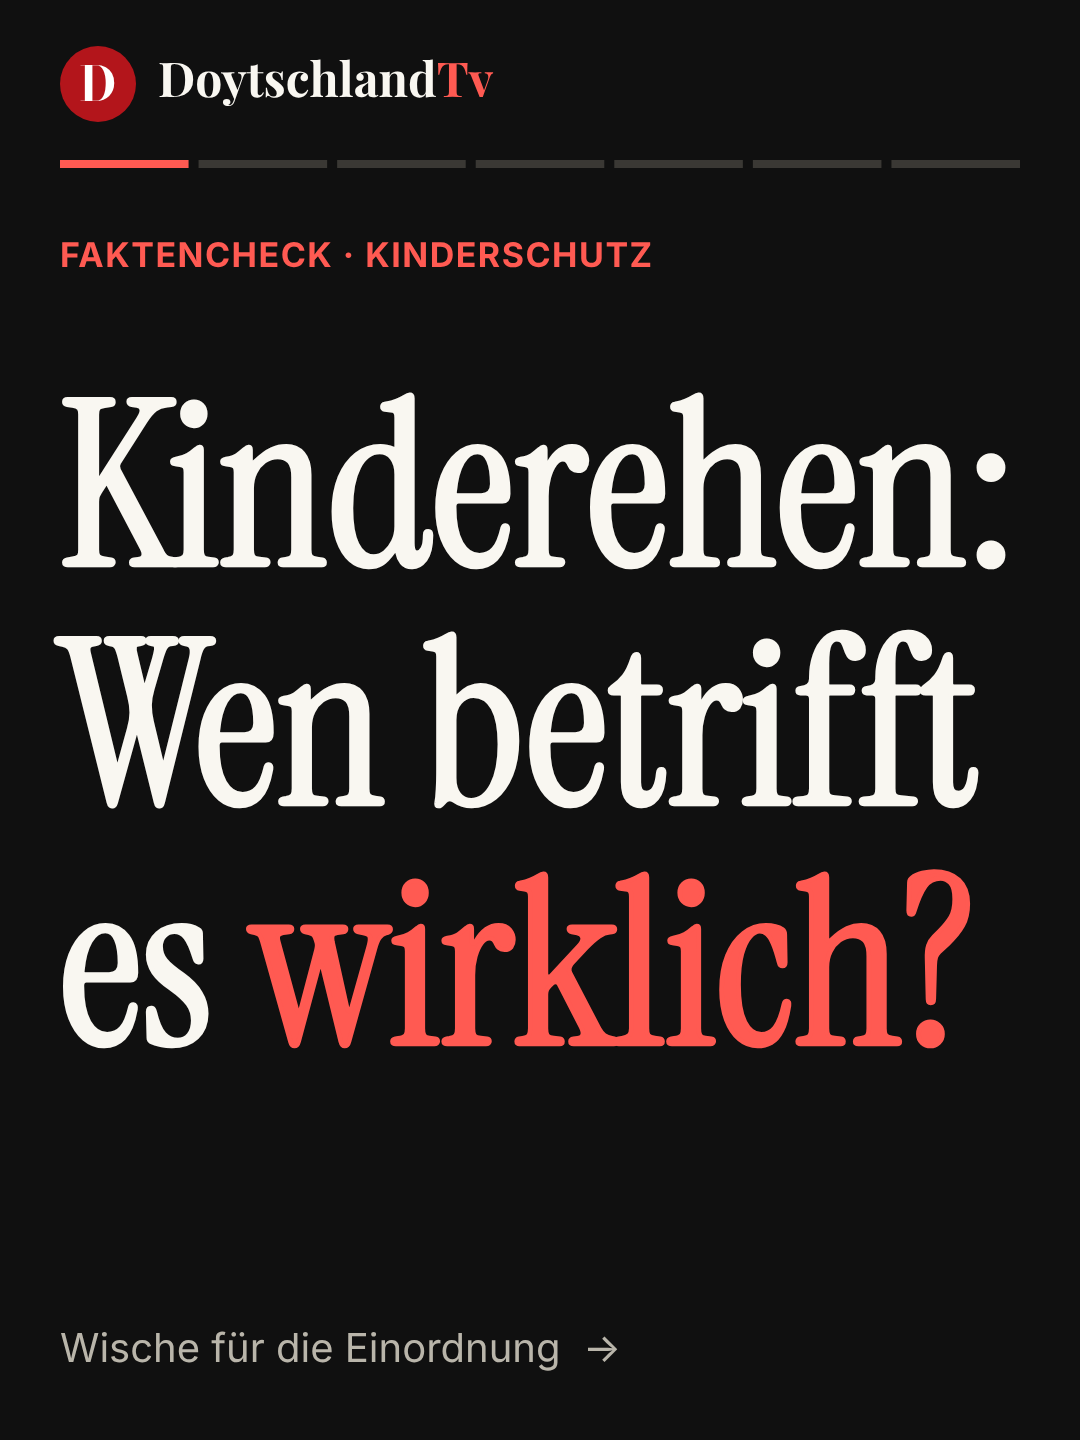
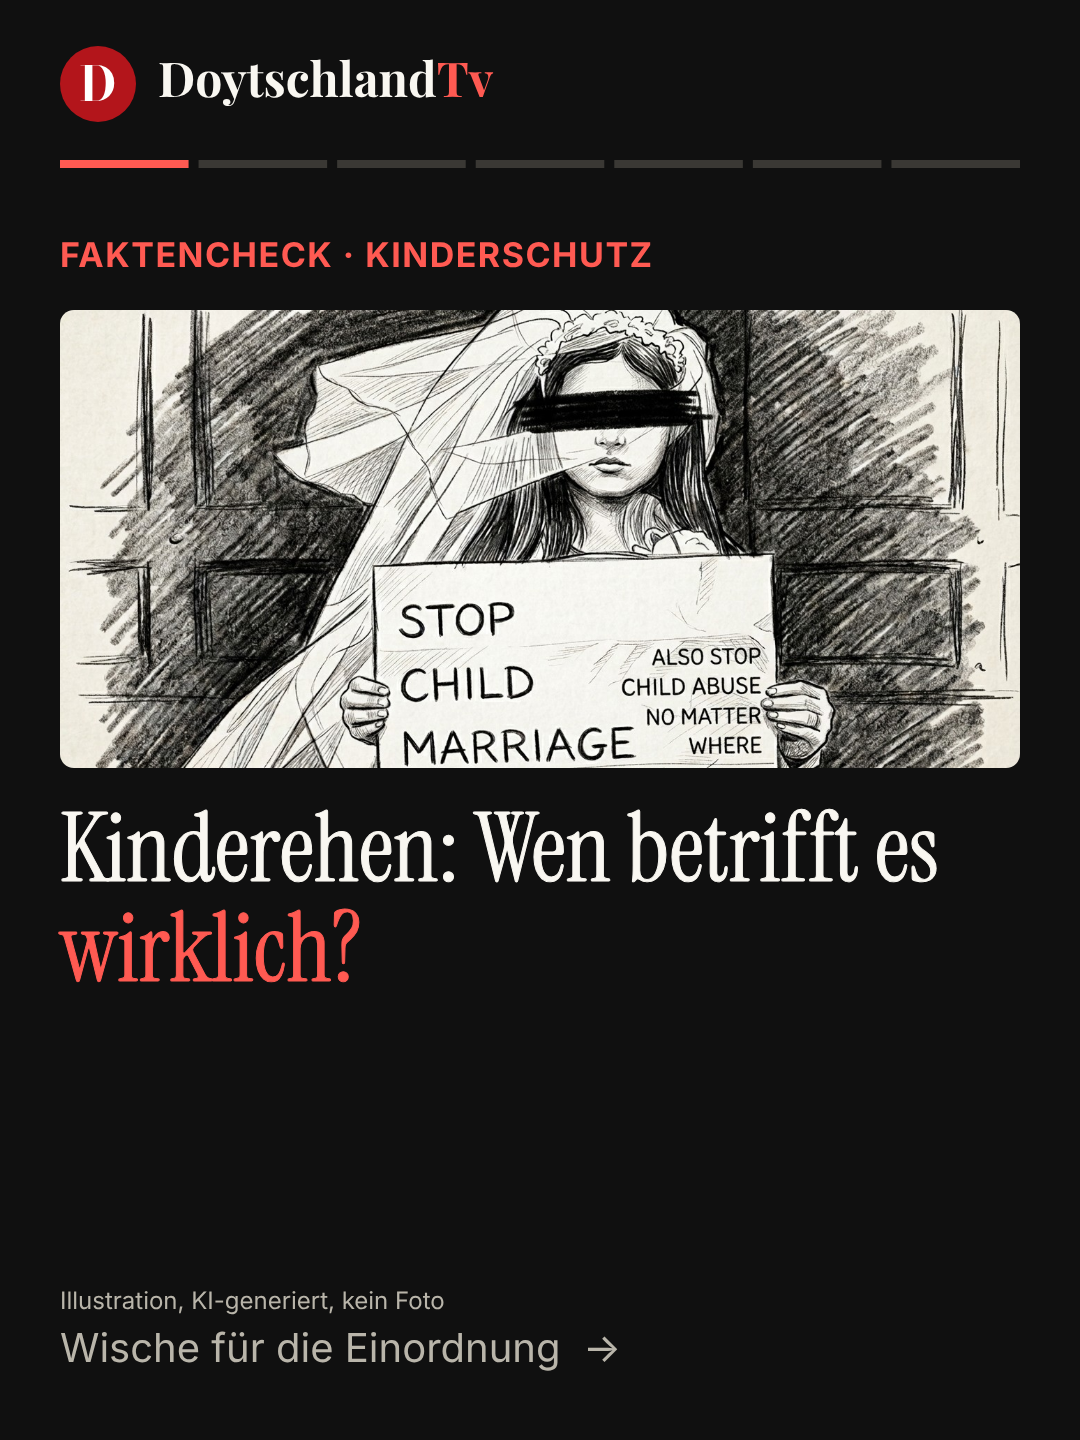
Entwurf Kinderehen: Titelbild in Hook und Story
Bild unten zugeschnitten (ohne Logo und Nummernfeld), Kennzeichnung "Illustration, KI-generiert, kein Foto". Neu gerendert, prerender und seo_seiten gelaufen. Nicht live.

Claude-Session: https://claude.ai/code/session_01C4yShQGQRoj2vCqoUjvDM3

diff --git a/beitrag/2026-10-15-kinderehen-wen-betrifft-es-wirklich-faktencheck-zu-acht-aufgehobenen.html b/beitrag/2026-10-15-kinderehen-wen-betrifft-es-wirklich-faktencheck-zu-acht-aufgehobenen.html
@@ -5,10 +5,10 @@
 <link rel="canonical" href="https://doytschtv.de/beitrag/2026-10-15-kinderehen-wen-betrifft-es-wirklich-faktencheck-zu-acht-aufgehobenen.html">
 <meta name="robots" content="index,follow,max-image-preview:large">
 <meta property="og:type" content="article"><meta property="og:site_name" content="DoytschlandTv"><meta property="og:locale" content="de_DE">
-<meta property="og:title" content="Kinderehen: Wen betrifft es wirklich? Faktencheck zu acht aufgehobenen Ehen in Baden-Württemberg"><meta property="og:description" content="In Baden-Württemberg wurden 2018 bis 2024 acht Ehen mit Minderjährigen aufgehoben. Die Beteiligten stammten aus Afghanistan, Rumänien, Moldawien, Syrien…"><meta property="og:url" content="https://doytschtv.de/beitrag/2026-10-15-kinderehen-wen-betrifft-es-wirklich-faktencheck-zu-acht-aufgehobenen.html"><meta property="og:image" content="https://doytschtv.de/og-image.png">
-<meta name="twitter:card" content="summary_large_image"><meta name="twitter:title" content="Kinderehen: Wen betrifft es wirklich? Faktencheck zu acht aufgehobenen Ehen in Baden-Württemberg"><meta name="twitter:description" content="In Baden-Württemberg wurden 2018 bis 2024 acht Ehen mit Minderjährigen aufgehoben. Die Beteiligten stammten aus Afghanistan, Rumänien, Moldawien, Syrien…"><meta name="twitter:image" content="https://doytschtv.de/og-image.png">
+<meta property="og:title" content="Kinderehen: Wen betrifft es wirklich? Faktencheck zu acht aufgehobenen Ehen in Baden-Württemberg"><meta property="og:description" content="In Baden-Württemberg wurden 2018 bis 2024 acht Ehen mit Minderjährigen aufgehoben. Die Beteiligten stammten aus Afghanistan, Rumänien, Moldawien, Syrien…"><meta property="og:url" content="https://doytschtv.de/beitrag/2026-10-15-kinderehen-wen-betrifft-es-wirklich-faktencheck-zu-acht-aufgehobenen.html"><meta property="og:image" content="https://doytschtv.de/titel-kinderehen.jpg">
+<meta name="twitter:card" content="summary_large_image"><meta name="twitter:title" content="Kinderehen: Wen betrifft es wirklich? Faktencheck zu acht aufgehobenen Ehen in Baden-Württemberg"><meta name="twitter:description" content="In Baden-Württemberg wurden 2018 bis 2024 acht Ehen mit Minderjährigen aufgehoben. Die Beteiligten stammten aus Afghanistan, Rumänien, Moldawien, Syrien…"><meta name="twitter:image" content="https://doytschtv.de/titel-kinderehen.jpg">
 <meta name="theme-color" content="#0b0b10"><link rel="apple-touch-icon" href="/favicon.png">
-<script type="application/ld+json">{"@context": "https://schema.org", "@type": "NewsArticle", "headline": "Kinderehen: Wen betrifft es wirklich? Faktencheck zu acht aufgehobenen Ehen in Baden-Württemberg", "description": "In Baden-Württemberg wurden 2018 bis 2024 acht Ehen mit Minderjährigen aufgehoben. Die Beteiligten stammten aus Afghanistan, Rumänien, Moldawien, Syrien…", "datePublished": "2026-10-15", "dateModified": "2026-10-15", "inLanguage": "de", "mainEntityOfPage": "https://doytschtv.de/beitrag/2026-10-15-kinderehen-wen-betrifft-es-wirklich-faktencheck-zu-acht-aufgehobenen.html", "image": ["https://doytschtv.de/og-image.png"], "author": {"@type": "Organization", "name": "DoytschlandTv", "url": "https://doytschtv.de/"}, "publisher": {"@type": "Organization", "name": "DoytschlandTv", "logo": {"@type": "ImageObject", "url": "https://doytschtv.de/favicon.png"}}, "articleSection": "Nachrichten", "keywords": ["doytschlandtv", "kinderschutz", "kinderehen", "faktencheck", "einordnung", "nachrichten", "politik", "deutschland"]}</script>
+<script type="application/ld+json">{"@context": "https://schema.org", "@type": "NewsArticle", "headline": "Kinderehen: Wen betrifft es wirklich? Faktencheck zu acht aufgehobenen Ehen in Baden-Württemberg", "description": "In Baden-Württemberg wurden 2018 bis 2024 acht Ehen mit Minderjährigen aufgehoben. Die Beteiligten stammten aus Afghanistan, Rumänien, Moldawien, Syrien…", "datePublished": "2026-10-15", "dateModified": "2026-10-15", "inLanguage": "de", "mainEntityOfPage": "https://doytschtv.de/beitrag/2026-10-15-kinderehen-wen-betrifft-es-wirklich-faktencheck-zu-acht-aufgehobenen.html", "image": ["https://doytschtv.de/titel-kinderehen.jpg"], "author": {"@type": "Organization", "name": "DoytschlandTv", "url": "https://doytschtv.de/"}, "publisher": {"@type": "Organization", "name": "DoytschlandTv", "logo": {"@type": "ImageObject", "url": "https://doytschtv.de/favicon.png"}}, "articleSection": "Nachrichten", "keywords": ["doytschlandtv", "kinderschutz", "kinderehen", "faktencheck", "einordnung", "nachrichten", "politik", "deutschland"]}</script>
 <link rel="stylesheet" href="/fonts.css"><link rel="stylesheet" href="/styles.css"><link rel="stylesheet" href="/briefing.css">
 <style>:root{color-scheme:light}body{margin:0}</style><link rel="icon" type="image/png" href="/favicon.png"></head><body>
-<header class="nav"><div class="wrap"><a class="brand" href="/index.html"><span class="mk" aria-hidden="true">D</span><img class="lg-l" src="/logo.png" alt="DoytschlandTv" width="136" height="25"><img class="lg-d" src="/logo-dark.png" alt="DoytschlandTv" width="136" height="25"></a><ul><li><a href="/briefing.html">Briefing</a></li><li><a href="/nachrichten.html" class=on>Nachrichten</a></li><li><a href="/dossiers.html">Dossiers</a></li><li><a href="/meinungen.html">Meinungen</a></li><li><a href="/erklaert.html">Erklärt</a></li><li><a href="/ueber-uns.html">Über uns</a></li></ul><span class="nav-so"><a href="https://www.instagram.com/doytschlandtv/" target="_blank" rel="noopener" aria-label="DoytschlandTv auf Instagram"><svg viewBox="0 0 24 24" fill="none" stroke="currentColor" stroke-width="2" stroke-linecap="round" aria-hidden="true"><rect x="3" y="3" width="18" height="18" rx="5"/><circle cx="12" cy="12" r="4.2"/><circle cx="17.3" cy="6.7" r=".6" fill="currentColor"/></svg></a><a href="https://www.tiktok.com/@doytschlandtv" target="_blank" rel="noopener" aria-label="DoytschlandTv auf TikTok"><svg viewBox="0 0 24 24" fill="currentColor" aria-hidden="true"><path d="M16.6 5.8A4.3 4.3 0 0 1 15.5 3h-3.1v12.4a2.6 2.6 0 1 1-1.8-2.5V9.7a5.7 5.7 0 1 0 4.9 5.7V9a7.3 7.3 0 0 0 4.3 1.4V7.3a4.3 4.3 0 0 1-3.2-1.5z"/></svg></a></span></div></header><main><div class="wrap"><article class="kol"><p class="b-eyebrow">Nachrichten · Faktencheck · Kinderschutz</p><h1 class="mk-h1">Kinderehen: Wen betrifft es wirklich? Faktencheck zu acht aufgehobenen Ehen in Baden-Württemberg</h1><p class="mk-meta">15. Oktober 2026</p><h2>Die Meldung</h2><p><strong>Acht aufgehobene Ehen, neun Herkunftsländer.</strong></p><p>In Baden-Württemberg wurden 2018 bis 2024 acht Ehen mit Minderjährigen aufgehoben. Die Beteiligten stammten aus Afghanistan, Rumänien, Moldawien, Syrien, Irak, Kroatien, Serbien, Pakistan und Deutschland. Die Männer waren meist deutlich älter als die Frauen. Die Zahlen stammen aus der Antwort des Innenministeriums auf eine AfD-Anfrage im Landtag.</p><h2>Bundesweit, Ende 2024</h2><p><strong>279 in Kinderehen erfasst</strong> Ausländische Staatsangehörige im Alter von 16 und 17 Jahren, keine unter 16. Ukraine 124, Syrien 67, Afghanistan 20, Bulgarien 12, Guinea 10, 28 weitere Staaten zusammen 46. Erfasst sind nur ausländische Staatsangehörige.</p><h2>Die Größenordnung: Kinderschutz ist größer als Zwangsehen.</h2><ul><li><strong>18.085 Kinder:</strong> waren 2024 Opfer sexuellen Missbrauchs, rund 50 am Tag. Das Dunkelfeld ist größer.</li><li><strong>Meist im Umfeld:</strong> Rund 25 % der Fälle geschehen in der engsten Familie, weitere im sozialen Nahraum.</li><li><strong>19,7 % ausländisch:</strong> Anteil ausländischer Tatverdächtiger 2024. Rund 80 % hatten keine ausländische Staatsangehörigkeit.</li></ul><h2>Der AfD-Antrag im Bundestag</h2><p><strong>Was stimmt, was fehlt.</strong></p><p>Es gibt keine zentrale Erfassung von Kinderehen. Eine Studie zu fordern ist legitim. Der AfD-Antrag verlangt sie aber nur zu Zwangsverheiratung, nicht zu Missbrauch in Familien, Kitas, Schulen oder Kirchen. Allein die Kirchenstudien zählen fast 3.000 Beschuldigte: 1.670 katholische, mindestens 1.259 evangelische.</p><h2>Unsere Meinung</h2><p>Kinderschutz gilt für jedes Kind, in Familie, Kita, Schule und Kirche. Wer ihn auf eine Religion verengt, unterstellt Menschen Taten, die sie nie begangen haben. Unter solchen Meldungen sehen wir, wohin das führt: Hass.</p><h2>Was meinst du?</h2><p><strong>Was braucht Kinderschutz am dringendsten?</strong></p><h2>Quellen</h2><ul><li>dpa, berichtet von echo24 und Wochenblatt-Reporter</li><li>Bundesregierung, Bundestags-Drucksache 21/1058</li><li>BMI/BKA Bundeslagebild 2024, UBSKM, ZDFheute</li><li>Bundesregierung (Drs. 21/1058), AfD-Antrag (Drs. 21/6926), MHG- und ForuM-Studie</li></ul><p><a href="/nachrichten.html">Alle Karussells ansehen ›</a></p><p class="mk-meta">Fakten sind mit Quellen belegt, Meinung ist als „Unsere Meinung“ gekennzeichnet.</p></article></div></main><footer><div class="wrap"><span>© DoytschlandTv</span><span><a href="/impressum.html">Impressum</a> · <a href="/datenschutz.html">Datenschutz</a></span></div></footer></body></html>
+<header class="nav"><div class="wrap"><a class="brand" href="/index.html"><span class="mk" aria-hidden="true">D</span><img class="lg-l" src="/logo.png" alt="DoytschlandTv" width="136" height="25"><img class="lg-d" src="/logo-dark.png" alt="DoytschlandTv" width="136" height="25"></a><ul><li><a href="/briefing.html">Briefing</a></li><li><a href="/nachrichten.html" class=on>Nachrichten</a></li><li><a href="/dossiers.html">Dossiers</a></li><li><a href="/meinungen.html">Meinungen</a></li><li><a href="/erklaert.html">Erklärt</a></li><li><a href="/ueber-uns.html">Über uns</a></li></ul><span class="nav-so"><a href="https://www.instagram.com/doytschlandtv/" target="_blank" rel="noopener" aria-label="DoytschlandTv auf Instagram"><svg viewBox="0 0 24 24" fill="none" stroke="currentColor" stroke-width="2" stroke-linecap="round" aria-hidden="true"><rect x="3" y="3" width="18" height="18" rx="5"/><circle cx="12" cy="12" r="4.2"/><circle cx="17.3" cy="6.7" r=".6" fill="currentColor"/></svg></a><a href="https://www.tiktok.com/@doytschlandtv" target="_blank" rel="noopener" aria-label="DoytschlandTv auf TikTok"><svg viewBox="0 0 24 24" fill="currentColor" aria-hidden="true"><path d="M16.6 5.8A4.3 4.3 0 0 1 15.5 3h-3.1v12.4a2.6 2.6 0 1 1-1.8-2.5V9.7a5.7 5.7 0 1 0 4.9 5.7V9a7.3 7.3 0 0 0 4.3 1.4V7.3a4.3 4.3 0 0 1-3.2-1.5z"/></svg></a></span></div></header><main><div class="wrap"><article class="kol"><p class="b-eyebrow">Nachrichten · Faktencheck · Kinderschutz</p><h1 class="mk-h1">Kinderehen: Wen betrifft es wirklich? Faktencheck zu acht aufgehobenen Ehen in Baden-Württemberg</h1><p class="mk-meta">15. Oktober 2026</p><figure style="margin:1rem 0"><img src="/titel-kinderehen.jpg" alt="Kinderehen: Wen betrifft es wirklich? Faktencheck zu acht aufgehobenen Ehen in Baden-Württemberg" style="width:100%;height:auto;border-radius:1rem" loading="lazy"><figcaption class="mk-meta">Illustration, KI-generiert, kein Foto</figcaption></figure><h2>Die Meldung</h2><p><strong>Acht aufgehobene Ehen, neun Herkunftsländer.</strong></p><p>In Baden-Württemberg wurden 2018 bis 2024 acht Ehen mit Minderjährigen aufgehoben. Die Beteiligten stammten aus Afghanistan, Rumänien, Moldawien, Syrien, Irak, Kroatien, Serbien, Pakistan und Deutschland. Die Männer waren meist deutlich älter als die Frauen. Die Zahlen stammen aus der Antwort des Innenministeriums auf eine AfD-Anfrage im Landtag.</p><h2>Bundesweit, Ende 2024</h2><p><strong>279 in Kinderehen erfasst</strong> Ausländische Staatsangehörige im Alter von 16 und 17 Jahren, keine unter 16. Ukraine 124, Syrien 67, Afghanistan 20, Bulgarien 12, Guinea 10, 28 weitere Staaten zusammen 46. Erfasst sind nur ausländische Staatsangehörige.</p><h2>Die Größenordnung: Kinderschutz ist größer als Zwangsehen.</h2><ul><li><strong>18.085 Kinder:</strong> waren 2024 Opfer sexuellen Missbrauchs, rund 50 am Tag. Das Dunkelfeld ist größer.</li><li><strong>Meist im Umfeld:</strong> Rund 25 % der Fälle geschehen in der engsten Familie, weitere im sozialen Nahraum.</li><li><strong>19,7 % ausländisch:</strong> Anteil ausländischer Tatverdächtiger 2024. Rund 80 % hatten keine ausländische Staatsangehörigkeit.</li></ul><h2>Der AfD-Antrag im Bundestag</h2><p><strong>Was stimmt, was fehlt.</strong></p><p>Es gibt keine zentrale Erfassung von Kinderehen. Eine Studie zu fordern ist legitim. Der AfD-Antrag verlangt sie aber nur zu Zwangsverheiratung, nicht zu Missbrauch in Familien, Kitas, Schulen oder Kirchen. Allein die Kirchenstudien zählen fast 3.000 Beschuldigte: 1.670 katholische, mindestens 1.259 evangelische.</p><h2>Unsere Meinung</h2><p>Kinderschutz gilt für jedes Kind, in Familie, Kita, Schule und Kirche. Wer ihn auf eine Religion verengt, unterstellt Menschen Taten, die sie nie begangen haben. Unter solchen Meldungen sehen wir, wohin das führt: Hass.</p><h2>Was meinst du?</h2><p><strong>Was braucht Kinderschutz am dringendsten?</strong></p><h2>Quellen</h2><ul><li>dpa, berichtet von echo24 und Wochenblatt-Reporter</li><li>Bundesregierung, Bundestags-Drucksache 21/1058</li><li>BMI/BKA Bundeslagebild 2024, UBSKM, ZDFheute</li><li>Bundesregierung (Drs. 21/1058), AfD-Antrag (Drs. 21/6926), MHG- und ForuM-Studie</li></ul><p><a href="/nachrichten.html">Alle Karussells ansehen ›</a></p><p class="mk-meta">Fakten sind mit Quellen belegt, Meinung ist als „Unsere Meinung“ gekennzeichnet.</p></article></div></main><footer><div class="wrap"><span>© DoytschlandTv</span><span><a href="/impressum.html">Impressum</a> · <a href="/datenschutz.html">Datenschutz</a></span></div></footer></body></html>

diff --git a/index.html b/index.html
@@ -36,7 +36,7 @@
         <h2>Heute im Blick</h2>
         <p id="heute-datum">15. Oktober 2026</p>
       </div>
-      <div class="hc-wrap"><button class="hc-b" id="hc-prev" type="button" aria-label="Zurück">&lsaquo;</button><div class="hc-rail" id="heute-liste" tabindex="0" aria-label="Schlagzeilen, seitlich wischen"><!--heute--><a class="hc" href="nachrichten.html#Kinderehen%3A%20Wen%20betrifft%20es%20wirklich%3F%20Faktencheck%20zu%20acht%20aufgehobenen%20Ehen%20in%20Baden-W%C3%BCrttemberg"><span class="hc-t"><span class="k">Nachrichten</span><strong>Kinderehen: Wen betrifft es wirklich? Faktencheck zu acht aufgehobenen Ehen in Baden-Württemberg</strong></span></a><a class="hc has-img" href="meinungen.html#2026-10-11"><span class="hc-i"><img class="bg" src="kolumne-christ.jpg" alt="" loading="lazy" aria-hidden="true"><img class="fg" src="kolumne-christ.jpg" alt="" loading="lazy"></span><span class="hc-t"><span class="k">Kolumne · Demokratie</span><strong>Selbstauskunft ist keine Kontrolle: Was der Fall Christ über Beratergremien zeigt</strong><small>Illustration, KI-generiert, kein Foto.</small></span></a><a class="hc" href="erklaert.html#schuldenbremse"><span class="hc-t"><span class="k">Erklärt</span><strong>Schuldenbremse und Sondervermögen</strong></span></a><!--/heute--></div><button class="hc-b nx" id="hc-next" type="button" aria-label="Weiter">&rsaquo;</button></div>
+      <div class="hc-wrap"><button class="hc-b" id="hc-prev" type="button" aria-label="Zurück">&lsaquo;</button><div class="hc-rail" id="heute-liste" tabindex="0" aria-label="Schlagzeilen, seitlich wischen"><!--heute--><a class="hc has-img" href="nachrichten.html#Kinderehen%3A%20Wen%20betrifft%20es%20wirklich%3F%20Faktencheck%20zu%20acht%20aufgehobenen%20Ehen%20in%20Baden-W%C3%BCrttemberg"><span class="hc-i"><img class="bg" src="titel-kinderehen.jpg" alt="" loading="lazy" aria-hidden="true"><img class="fg" src="titel-kinderehen.jpg" alt="" loading="lazy"></span><span class="hc-t"><span class="k">Nachrichten</span><strong>Kinderehen: Wen betrifft es wirklich? Faktencheck zu acht aufgehobenen Ehen in Baden-Württemberg</strong><small>Illustration, KI-generiert, kein Foto</small></span></a><a class="hc has-img" href="meinungen.html#2026-10-11"><span class="hc-i"><img class="bg" src="kolumne-christ.jpg" alt="" loading="lazy" aria-hidden="true"><img class="fg" src="kolumne-christ.jpg" alt="" loading="lazy"></span><span class="hc-t"><span class="k">Kolumne · Demokratie</span><strong>Selbstauskunft ist keine Kontrolle: Was der Fall Christ über Beratergremien zeigt</strong><small>Illustration, KI-generiert, kein Foto.</small></span></a><a class="hc" href="erklaert.html#schuldenbremse"><span class="hc-t"><span class="k">Erklärt</span><strong>Schuldenbremse und Sondervermögen</strong></span></a><!--/heute--></div><button class="hc-b nx" id="hc-next" type="button" aria-label="Weiter">&rsaquo;</button></div>
     </div>
   </section>
 

diff --git a/briefings.js b/briefings.js
@@ -12,7 +12,12 @@ window.BRIEFINGS = [
       "typ": "hook",
       "kicker": "Faktencheck · Kinderschutz",
       "titel": "Kinderehen: Wen betrifft es wirklich?",
-      "rot": "wirklich"
+      "rot": "wirklich",
+      "bild": {
+       "url": "titel-kinderehen.jpg",
+       "fokus": 0.5,
+       "unter": "Illustration, KI-generiert, kein Foto"
+      }
      },
      {
       "typ": "fakten",
@@ -78,7 +83,13 @@ window.BRIEFINGS = [
     "rot": "wirklich",
     "text": "Acht aufgehobene Ehen in Baden-Württemberg, Beteiligte aus neun Ländern. Alle Zahlen im Karussell, Link in der Bio.",
     "quelle": "dpa; Bundesregierung, Drucksache 21/1058",
-    "theme": "dark"
+    "theme": "dark",
+    "bild": {
+     "url": "titel-kinderehen.jpg",
+     "karte": true,
+     "fokus": 0.5,
+     "unter": "Illustration, KI-generiert, kein Foto · Karussell: Link in der Bio"
+    }
    }
   ]
  },
